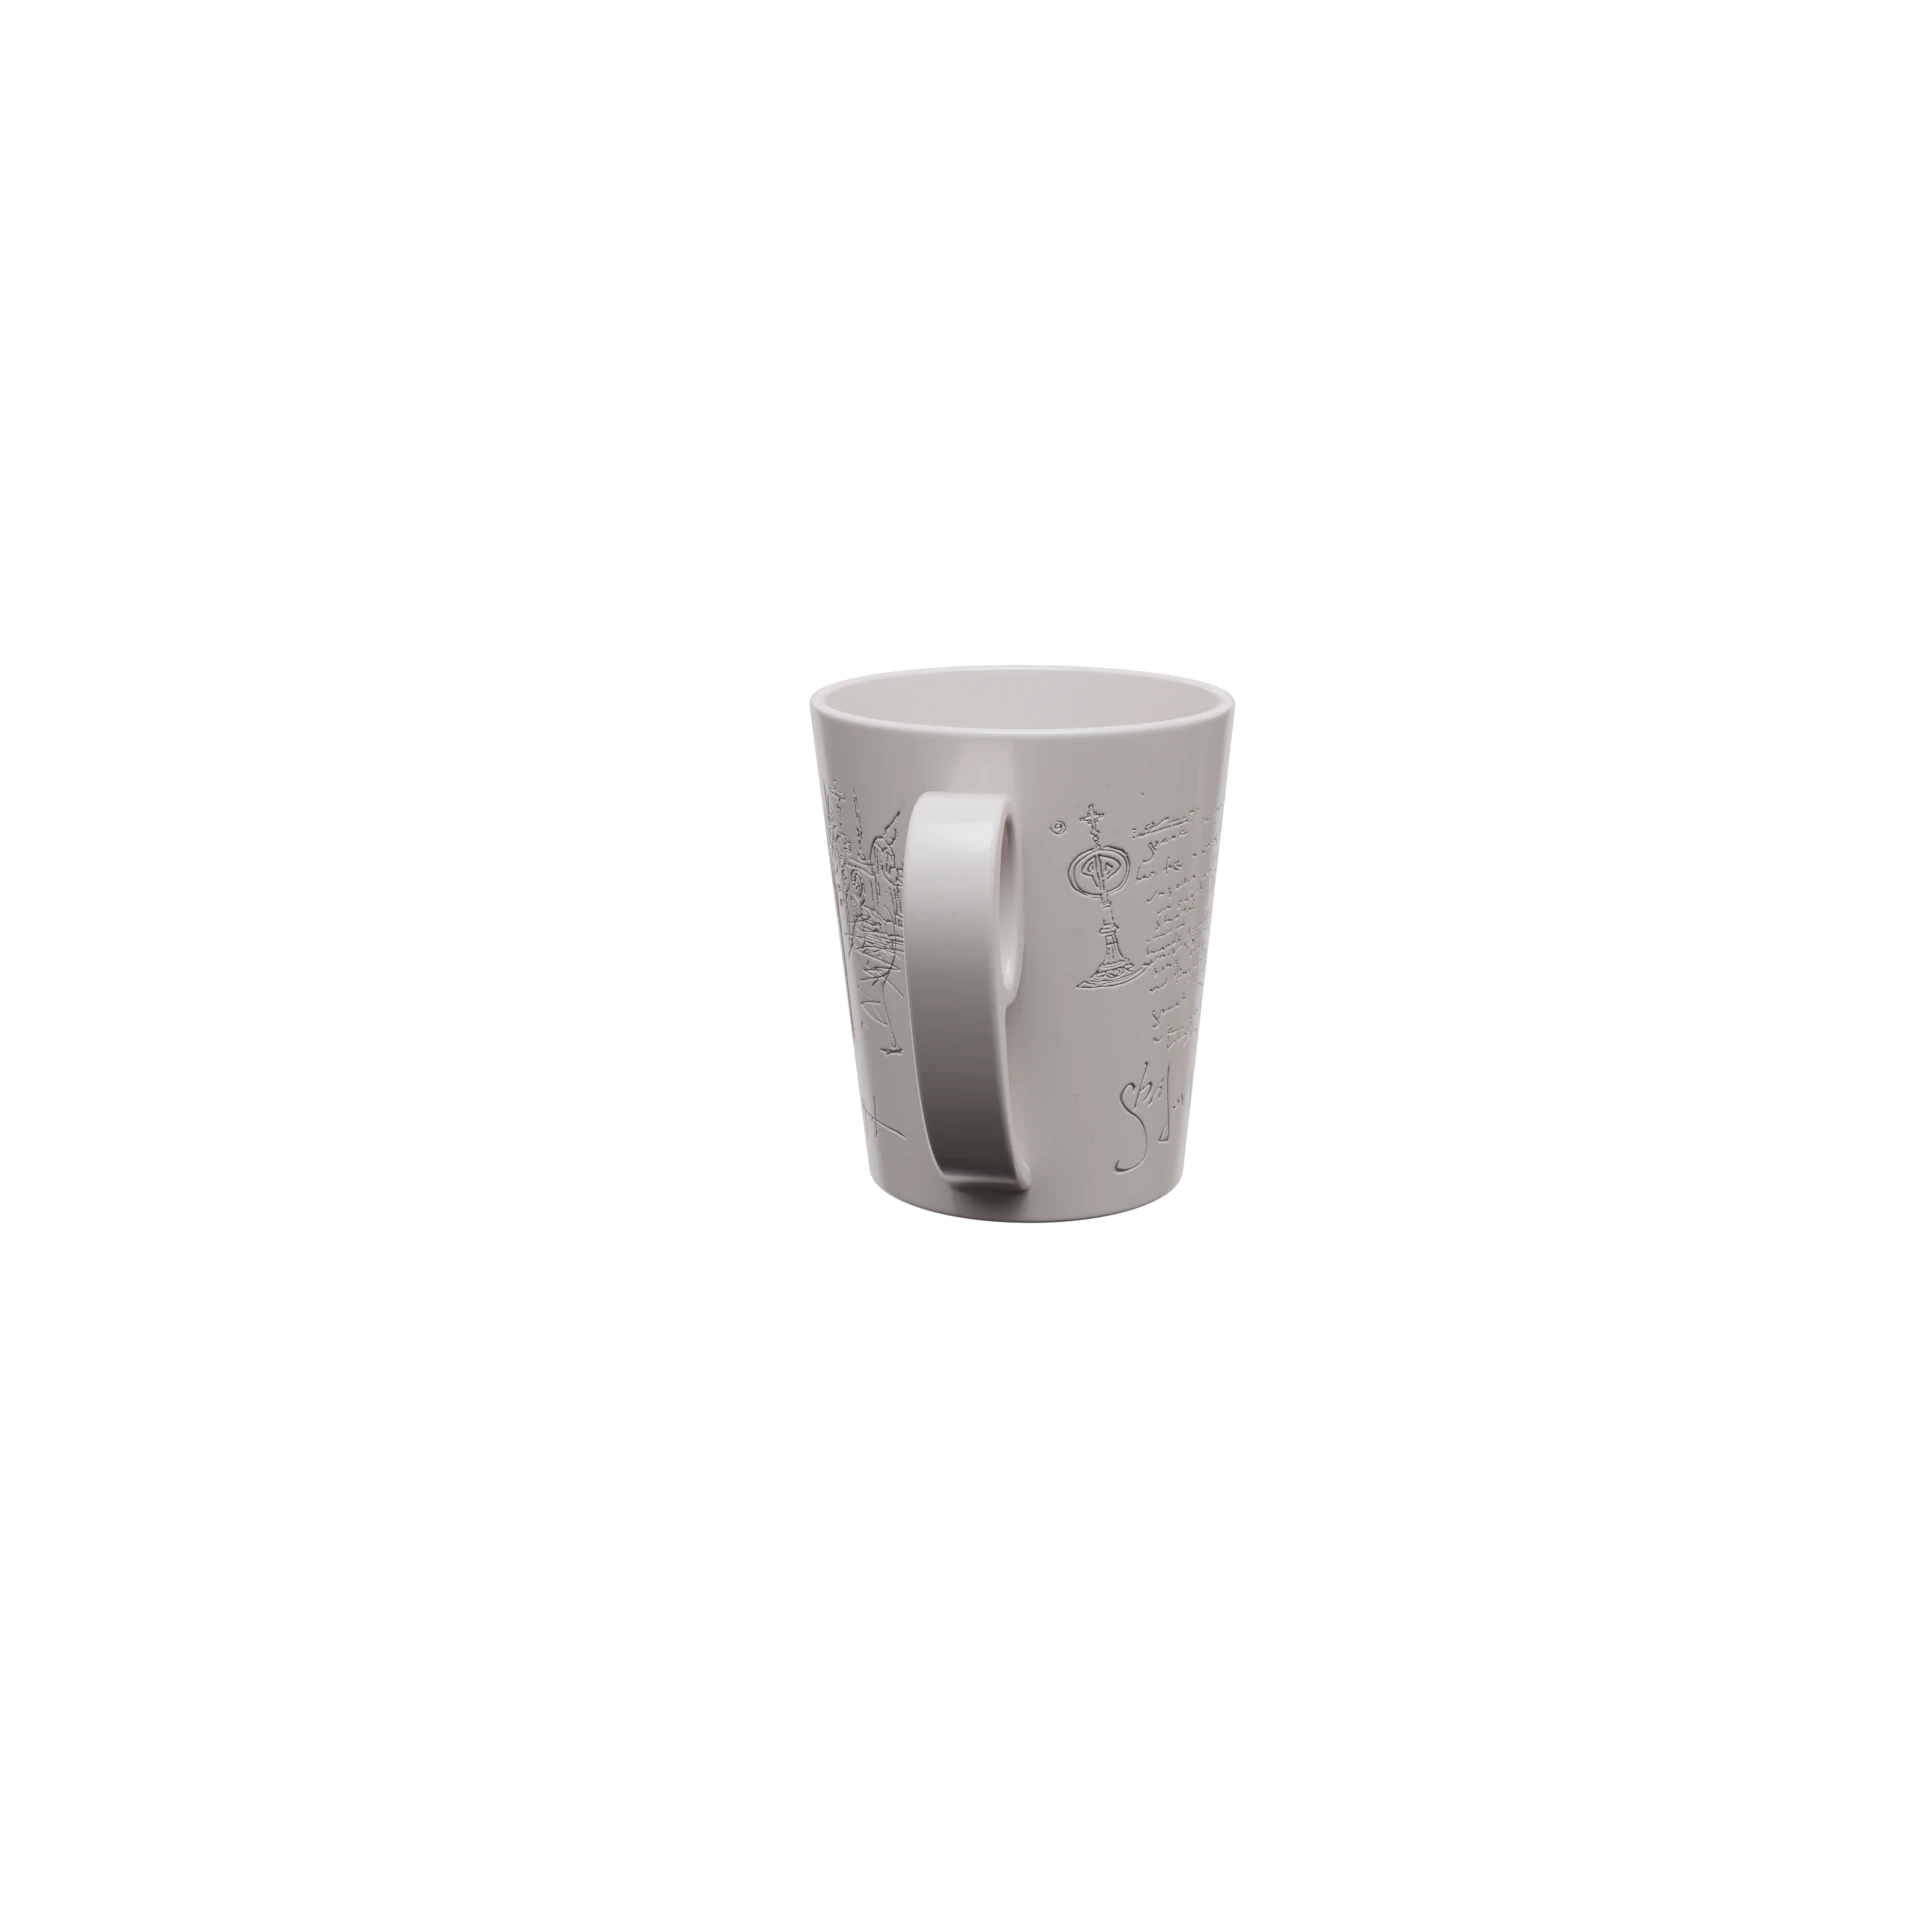
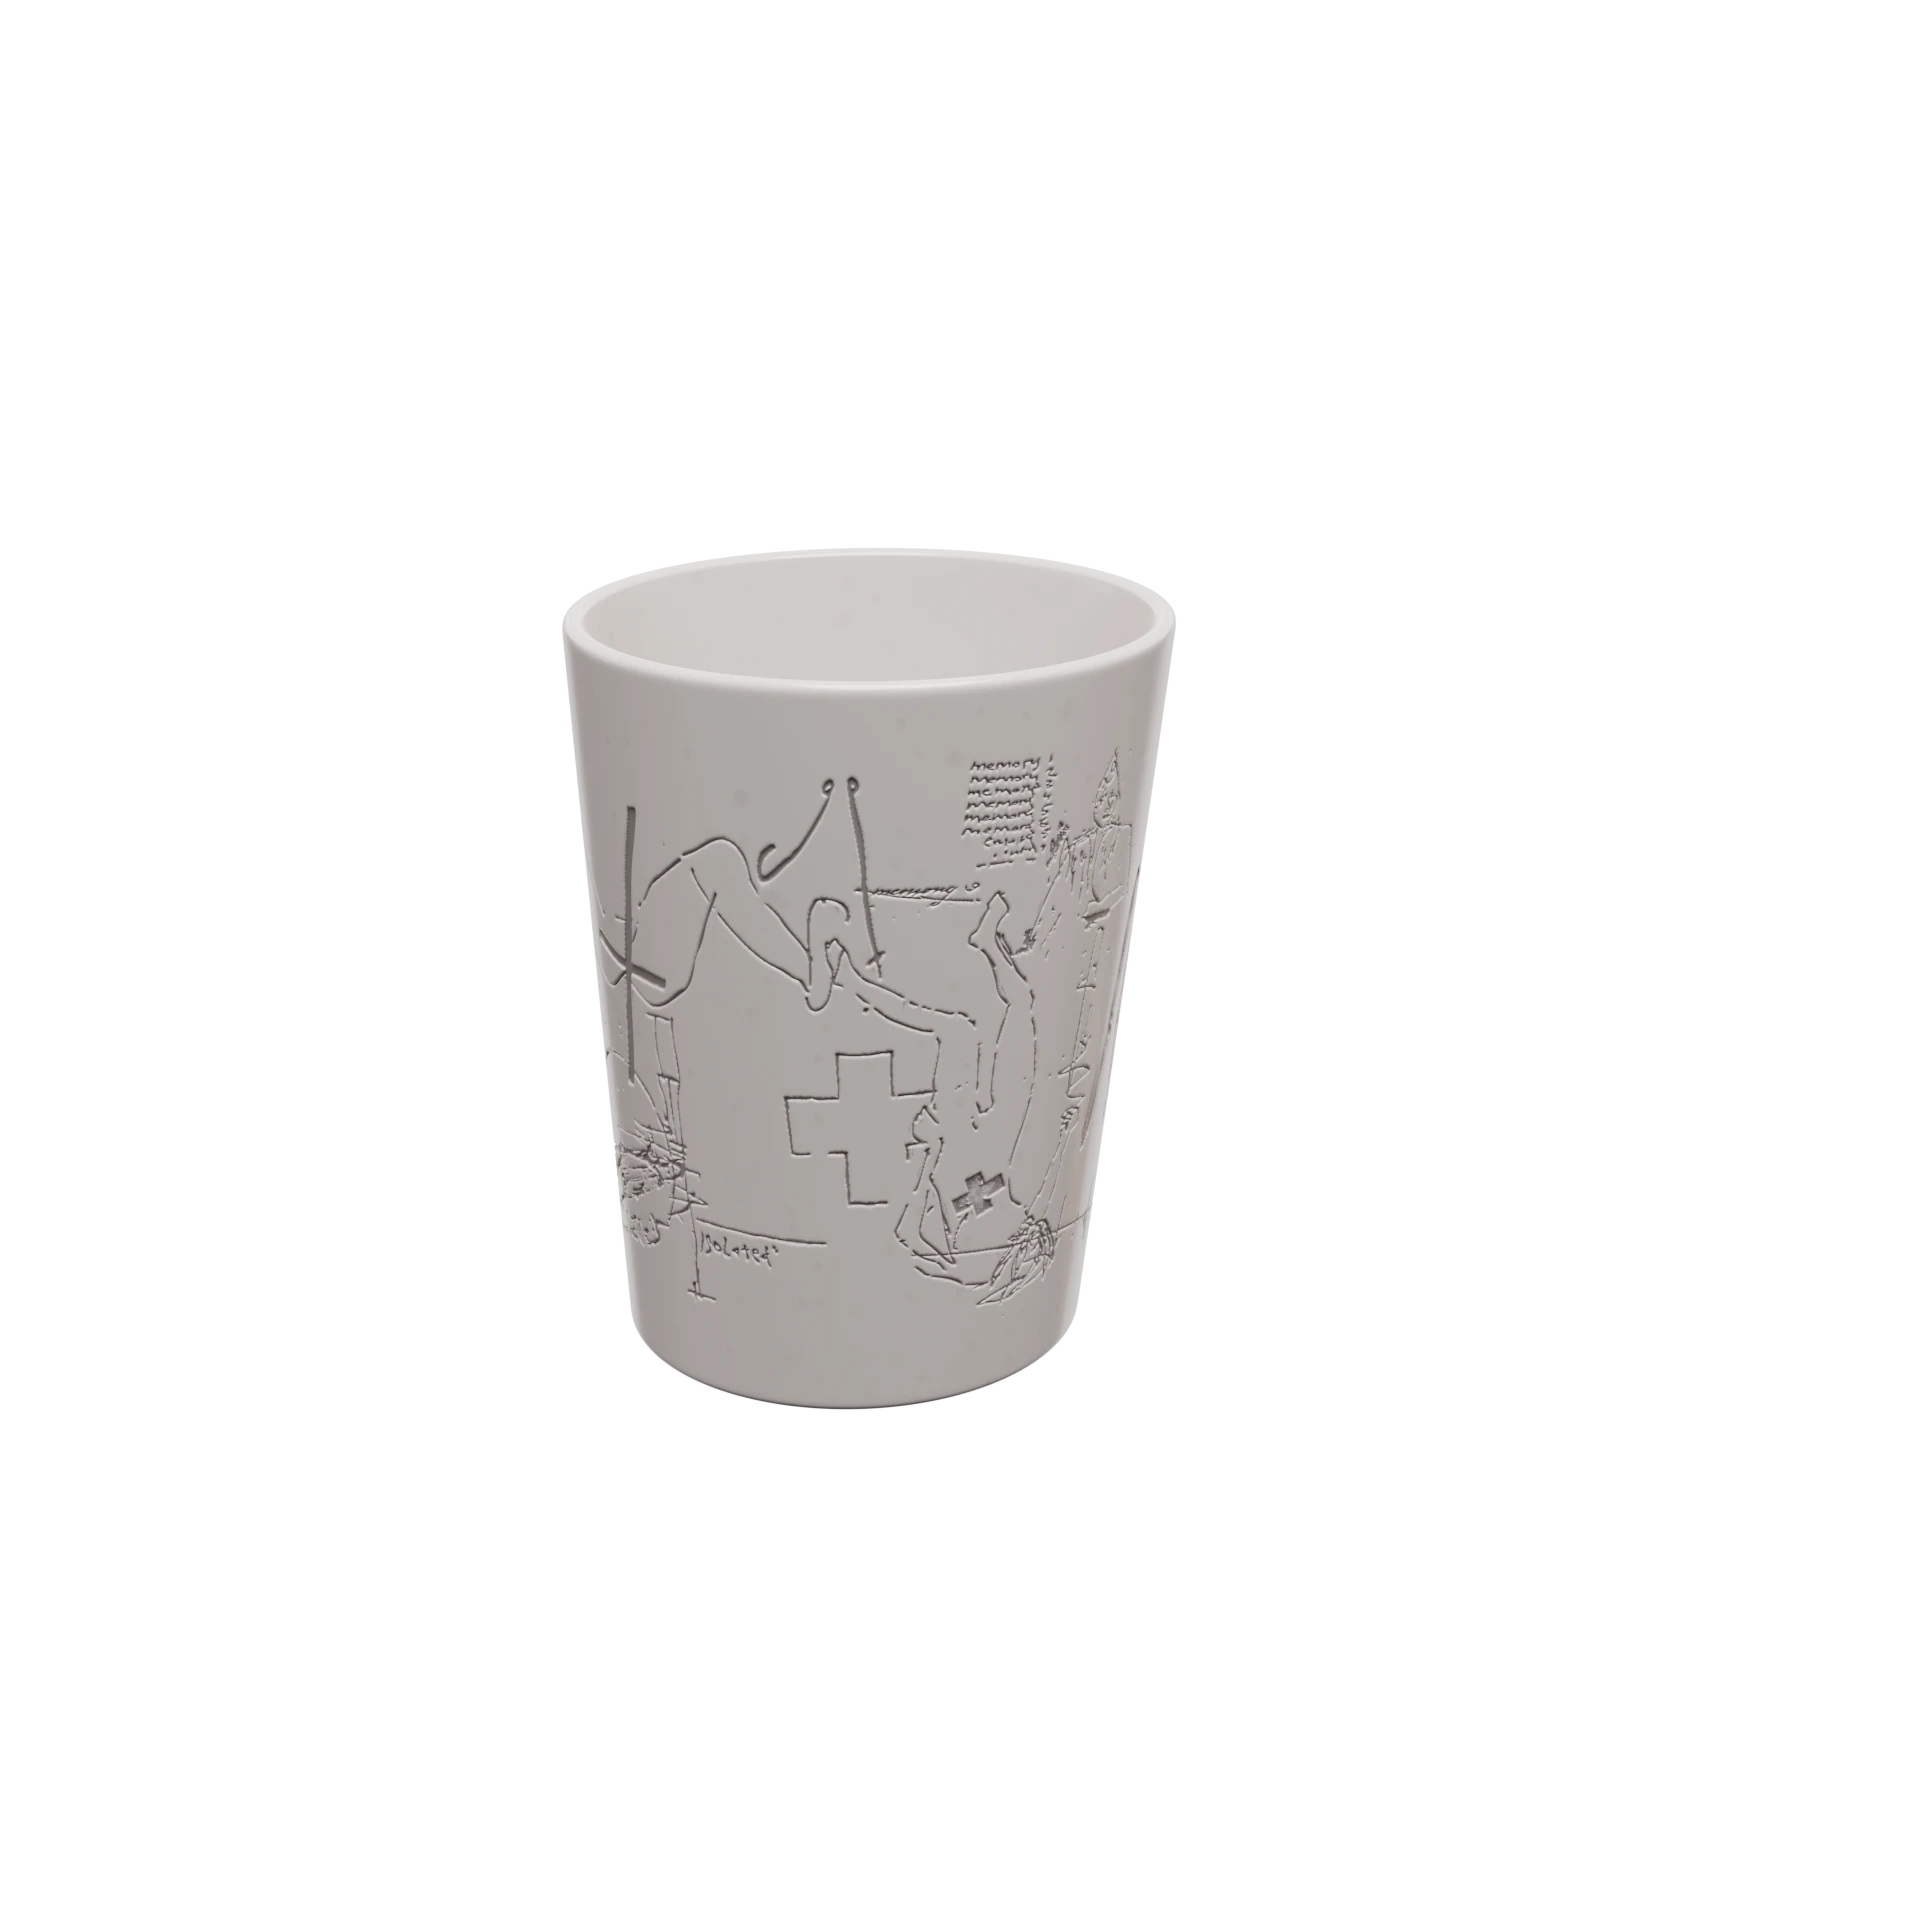
Rebuild the mug look-around as a 10×5 grid around the new origin and closer camera.

Changed region(s): [[0.2812, 0.2812, 0.6562, 0.75]]

diff --git a/src/components/ProductViewer.js b/src/components/ProductViewer.js
@@ -13,44 +13,60 @@ import {
   orientationApiAvailable
 } from "../device-orientation-permission.js";
 
-/** 5×5 look-around grid — one unique frame / angle pair per cell. */
-const GRID_SIZE = 5;
+const DEFAULT_GRID_COLS = 5;
+const DEFAULT_GRID_ROWS = 5;
 const CENTER_KEY = "c13";
 
-/** Keys c01…c25 in row-major order (1 = top-left, 13 = center, 25 = bottom-right). */
-const DIRECTION_KEYS = Array.from({ length: GRID_SIZE * GRID_SIZE }, (_, i) => {
-  return `c${String(i + 1).padStart(2, "0")}`;
-});
+function makeDirectionKeys(cols, rows) {
+  return Array.from({ length: cols * rows }, (_, i) => {
+    return `c${String(i + 1).padStart(2, "0")}`;
+  });
+}
 
-/** Mug yaw/pitch degrees for each cell (col → H ±202.5° / 405° span, row → V ±30° milder pitch). */
-const CELL_ANGLES = (() => {
-  const hVals = [-202.5, -101.25, 0, 101.25, 202.5];
-  const vVals = [30, 15, 0, -15, -30];
+/** Keys c01…c25 in row-major order — default 5×5 used by the mat hero. */
+const DIRECTION_KEYS = makeDirectionKeys(DEFAULT_GRID_COLS, DEFAULT_GRID_ROWS);
+
+function makeCellAngles(cols, rows, hVals, vVals) {
   const map = {};
   let n = 0;
-  for (let row = 0; row < GRID_SIZE; row += 1) {
-    for (let col = 0; col < GRID_SIZE; col += 1) {
+  for (let row = 0; row < rows; row += 1) {
+    for (let col = 0; col < cols; col += 1) {
       n += 1;
-      map[`c${String(n).padStart(2, "0")}`] = { col, row, h: hVals[col], v: vVals[row] };
+      map[`c${String(n).padStart(2, "0")}`] = {
+        col,
+        row,
+        h: hVals[col],
+        v: vVals[row]
+      };
     }
   }
   return map;
-})();
+}
 
-function cellKey(col, row) {
-  return `c${String(row * GRID_SIZE + col + 1).padStart(2, "0")}`;
+/** Default 5×5 angles (mat). Mug passes its own grid via createProductViewer options. */
+const CELL_ANGLES = makeCellAngles(
+  DEFAULT_GRID_COLS,
+  DEFAULT_GRID_ROWS,
+  [-90, -45, 0, 45, 90],
+  [90, 45, 0, -45, -90]
+);
+
+function cellKey(col, row, cols = DEFAULT_GRID_COLS) {
+  return `c${String(row * cols + col + 1).padStart(2, "0")}`;
 }
 
 /** Screen top/bottom swapped; middle row (center) stays. */
-function frameRowForScreenRow(row, flipVertical = true) {
-  return flipVertical ? GRID_SIZE - 1 - row : row;
+function frameRowForScreenRow(row, flipVertical = true, rows = DEFAULT_GRID_ROWS) {
+  return flipVertical ? rows - 1 - row : row;
 }
 
-function zoneColorForKey(key) {
-  const meta = CELL_ANGLES[key];
-  if (!meta) return [200, 200, 200];
-  const t = meta.col / (GRID_SIZE - 1);
-  const u = meta.row / (GRID_SIZE - 1);
+function zoneColorForKey(key, cols = DEFAULT_GRID_COLS, rows = DEFAULT_GRID_ROWS) {
+  const n = Number.parseInt(String(key).slice(1), 10);
+  if (!Number.isFinite(n) || n < 1) return [200, 200, 200];
+  const col = (n - 1) % cols;
+  const row = Math.floor((n - 1) / cols);
+  const t = cols > 1 ? col / (cols - 1) : 0;
+  const u = rows > 1 ? row / (rows - 1) : 0;
   return [
     Math.round(40 + t * 200),
     Math.round(100 + (1 - Math.abs(t - 0.5) * 2) * 100),
@@ -86,8 +102,8 @@ function isMobileInteraction() {
 
 function normalizeImages(images = {}) {
   const normalized = {};
-  for (const key of DIRECTION_KEYS) {
-    if (images[key]) normalized[key] = images[key];
+  for (const [key, src] of Object.entries(images)) {
+    if (src) normalized[key] = src;
   }
   return normalized;
 }
@@ -129,7 +145,7 @@ async function decodeImageSource(src) {
  */
 export function preloadMugFrameImages(images = {}) {
   const normalized = normalizeImages(images);
-  const sources = DIRECTION_KEYS.map((key) => normalized[key]).filter(Boolean);
+  const sources = Object.values(normalized).filter(Boolean);
 
   for (const src of sources) {
     injectPreloadLink(src);
@@ -167,7 +183,10 @@ async function waitForFramePainted(img) {
  *   showZones?: boolean,
  *   maxGamma?: number,
  *   maxBeta?: number,
- *   flipVerticalFrames?: boolean
+ *   flipVerticalFrames?: boolean,
+ *   gridCols?: number,
+ *   gridRows?: number,
+ *   centerKey?: string
  * }} options
  */
 export function createProductViewer(root, options = {}) {
@@ -176,6 +195,12 @@ export function createProductViewer(root, options = {}) {
   }
 
   const images = normalizeImages(options.images);
+  const gridCols = Math.max(1, Math.round(options.gridCols ?? DEFAULT_GRID_COLS));
+  const gridRows = Math.max(1, Math.round(options.gridRows ?? DEFAULT_GRID_ROWS));
+  const directionKeys = makeDirectionKeys(gridCols, gridRows);
+  const centerCol = Math.floor(gridCols / 2);
+  const centerRow = Math.floor(gridRows / 2);
+  const centerKey = options.centerKey || cellKey(centerCol, centerRow, gridCols);
   const legacyRadius = options.deadZoneRadius ?? 0.14;
   const deadZoneHalfWidth = options.deadZoneHalfWidth ?? legacyRadius * 2;
   const deadZoneHalfHeight = options.deadZoneHalfHeight ?? legacyRadius * 1.35;
@@ -196,7 +221,7 @@ export function createProductViewer(root, options = {}) {
 
   let destroyed = false;
   let ready = false;
-  let activeKey = CENTER_KEY;
+  let activeKey = centerKey;
   let zoneCanvas = null;
   let zoneCtx = null;
   let zoneLabelLayer = null;
@@ -239,7 +264,7 @@ export function createProductViewer(root, options = {}) {
   let intersectionObserver = null;
 
   const layerNodes = new Map();
-  const availableKeys = DIRECTION_KEYS.filter((key) => Boolean(images[key]));
+  const availableKeys = directionKeys.filter((key) => Boolean(images[key]));
 
   root.classList.add("product-viewer");
   root.classList.toggle("has-zones", showZones);
@@ -251,7 +276,7 @@ export function createProductViewer(root, options = {}) {
   stage.className = "product-viewer__stage";
   root.append(stage);
 
-  for (const key of DIRECTION_KEYS) {
+  for (const key of directionKeys) {
     const src = images[key];
     if (!src) continue;
 
@@ -266,28 +291,23 @@ export function createProductViewer(root, options = {}) {
     img.fetchPriority = "high";
     img.src = src;
     img.dataset.direction = key;
-    const isCenter = key === CENTER_KEY;
+    const isCenter = key === centerKey;
     img.classList.toggle("is-active", isCenter);
     img.setAttribute("aria-hidden", isCenter ? "false" : "true");
     stage.append(img);
     layerNodes.set(key, img);
   }
 
+  function evenEdges(min, max, count) {
+    if (count <= 1) return [min, max];
+    const step = (max - min) / count;
+    return Array.from({ length: count + 1 }, (_, i) => min + i * step);
+  }
+
   function gridEdges() {
-    const nyTop = -verticalSensitivity;
-    const nyBottom = verticalSensitivity;
-    const upHalfNy = (nyTop - deadZoneHalfHeight) / 2;
-    const downHalfNy = (nyBottom + deadZoneHalfHeight) / 2;
     return {
-      xEdges: [
-        -horizontalSensitivity,
-        -sideFarBoundary,
-        -deadZoneHalfWidth,
-        deadZoneHalfWidth,
-        sideFarBoundary,
-        horizontalSensitivity
-      ],
-      yEdges: [nyTop, upHalfNy, -deadZoneHalfHeight, deadZoneHalfHeight, downHalfNy, nyBottom]
+      xEdges: evenEdges(-horizontalSensitivity, horizontalSensitivity, gridCols),
+      yEdges: evenEdges(-verticalSensitivity, verticalSensitivity, gridRows)
     };
   }
 
@@ -305,20 +325,20 @@ export function createProductViewer(root, options = {}) {
     return edges.length - 2;
   }
 
-  /** Map normalized pointer → unique 5×5 cell key (c01…c25). */
+  /** Map normalized pointer → unique grid cell key. */
   function pickDirection(nx, ny) {
     const { xEdges, yEdges } = gridEdges();
     const col = binIndex(nx, xEdges);
     const row = binIndex(ny, yEdges);
-    const key = cellKey(col, frameRowForScreenRow(row, flipVerticalFrames));
-    return availableKeys.includes(key) ? key : firstAvailable(CENTER_KEY, availableKeys[0]);
+    const key = cellKey(col, frameRowForScreenRow(row, flipVerticalFrames, gridRows), gridCols);
+    return availableKeys.includes(key) ? key : firstAvailable(centerKey, availableKeys[0]);
   }
 
   function firstAvailable(...keys) {
     for (const key of keys) {
       if (key && availableKeys.includes(key)) return key;
     }
-    return availableKeys.includes(CENTER_KEY) ? CENTER_KEY : availableKeys[0];
+    return availableKeys.includes(centerKey) ? centerKey : availableKeys[0];
   }
 
   function computeNormalizedFromLocal(localX, localY, width, height) {
@@ -332,7 +352,7 @@ export function createProductViewer(root, options = {}) {
 
   /** Map a 5×5 overlay cell to its unique frame key. */
   function cellDirection(col, row) {
-    return cellKey(col, frameRowForScreenRow(row, flipVerticalFrames));
+    return cellKey(col, frameRowForScreenRow(row, flipVerticalFrames, gridRows), gridCols);
   }
 
   function computeNormalizedPointer(clientX, clientY) {
@@ -468,12 +488,12 @@ export function createProductViewer(root, options = {}) {
           height
         );
         const key = pickDirection(nx, ny);
-        const color = zoneColorForKey(key);
+        const color = zoneColorForKey(key, gridCols, gridRows);
         const index = (row * cols + col) * 4;
         data[index] = color[0];
         data[index + 1] = color[1];
         data[index + 2] = color[2];
-        data[index + 3] = key === CENTER_KEY ? 48 : 78;
+        data[index + 3] = key === centerKey ? 48 : 78;
       }
     }
 
@@ -488,8 +508,8 @@ export function createProductViewer(root, options = {}) {
       ((ny / verticalSensitivity) * 0.5 + 0.5) * 100;
 
     let section = 1;
-    for (let row = 0; row < 5; row += 1) {
-      for (let col = 0; col < 5; col += 1) {
+    for (let row = 0; row < gridRows; row += 1) {
+      for (let col = 0; col < gridCols; col += 1) {
         const key = cellDirection(col, row);
         if (!availableKeys.includes(key)) {
           section += 1;
@@ -800,18 +820,18 @@ export function createProductViewer(root, options = {}) {
 }
 
 /**
- * 5×5 unique frame map — cell_01…cell_25 (row-major).
- * Angles: H −202.5…+202.5 (405° span), V +30…−30 (mild pitch).
+ * Unique frame map — cell_01…cell_N (row-major).
+ * Default 5×5 for the mat. Mug uses 10×5.
  */
 export function createMugFrameImages(
   resolvePath,
   basePath = "/media/mug_frames",
-  { extension = "webp" } = {}
+  { extension = "webp", cols = DEFAULT_GRID_COLS, rows = DEFAULT_GRID_ROWS } = {}
 ) {
   const root = basePath.replace(/\/$/, "");
   const ext = String(extension || "webp").replace(/^\./, "");
   const images = {};
-  for (const key of DIRECTION_KEYS) {
+  for (const key of makeDirectionKeys(cols, rows)) {
     const absolute = `${root}/cell_${key.slice(1)}.${ext}`;
     images[key] = typeof resolvePath === "function" ? resolvePath(absolute) : absolute;
   }

diff --git a/src/product.js b/src/product.js
@@ -30,7 +30,10 @@ function resolvePublicAssetPath(path) {
 }
 
 // Kick off mug-frame download + decode immediately on product page entry.
-const mugFrameImages = createMugFrameImages(resolvePublicAssetPath, "/media/mug_frames");
+const mugFrameImages = createMugFrameImages(resolvePublicAssetPath, "/media/mug_frames", {
+  cols: 10,
+  rows: 5
+});
 const mugFramesWarmup = preloadMugFrameImages(mugFrameImages);
 
 const radioBtn = document.querySelector("#radioBtn");
@@ -168,15 +171,18 @@ function setupDirectionalProductHero() {
   createProductViewer(productViewerRoot, {
     images: mugFrameImages,
     transitionDuration: 0,
-    // Same 5×5 segment layout as mat; H ±202.5° step 101.25° (405° span), V ±30° step 15°.
-    deadZoneHalfWidth: 0.28,
+    // 10×5 look-around: H ±202.5° step 45°, V ±20° step 10°.
+    deadZoneHalfWidth: 0.14,
     deadZoneHalfHeight: 0.19,
     sideFarBoundary: 0.7,
     horizontalSensitivity: 1.05,
     verticalSensitivity: 0.95,
     maxGamma: 20,
     maxBeta: 16,
-    // Invert look-up / look-down: top row ↔ underside, center (cell_13) stays.
+    gridCols: 10,
+    gridRows: 5,
+    centerKey: "c26",
+    // Invert look-up / look-down: top row ↔ underside, center stays.
     flipVerticalFrames: true,
     showZones: false
   });
